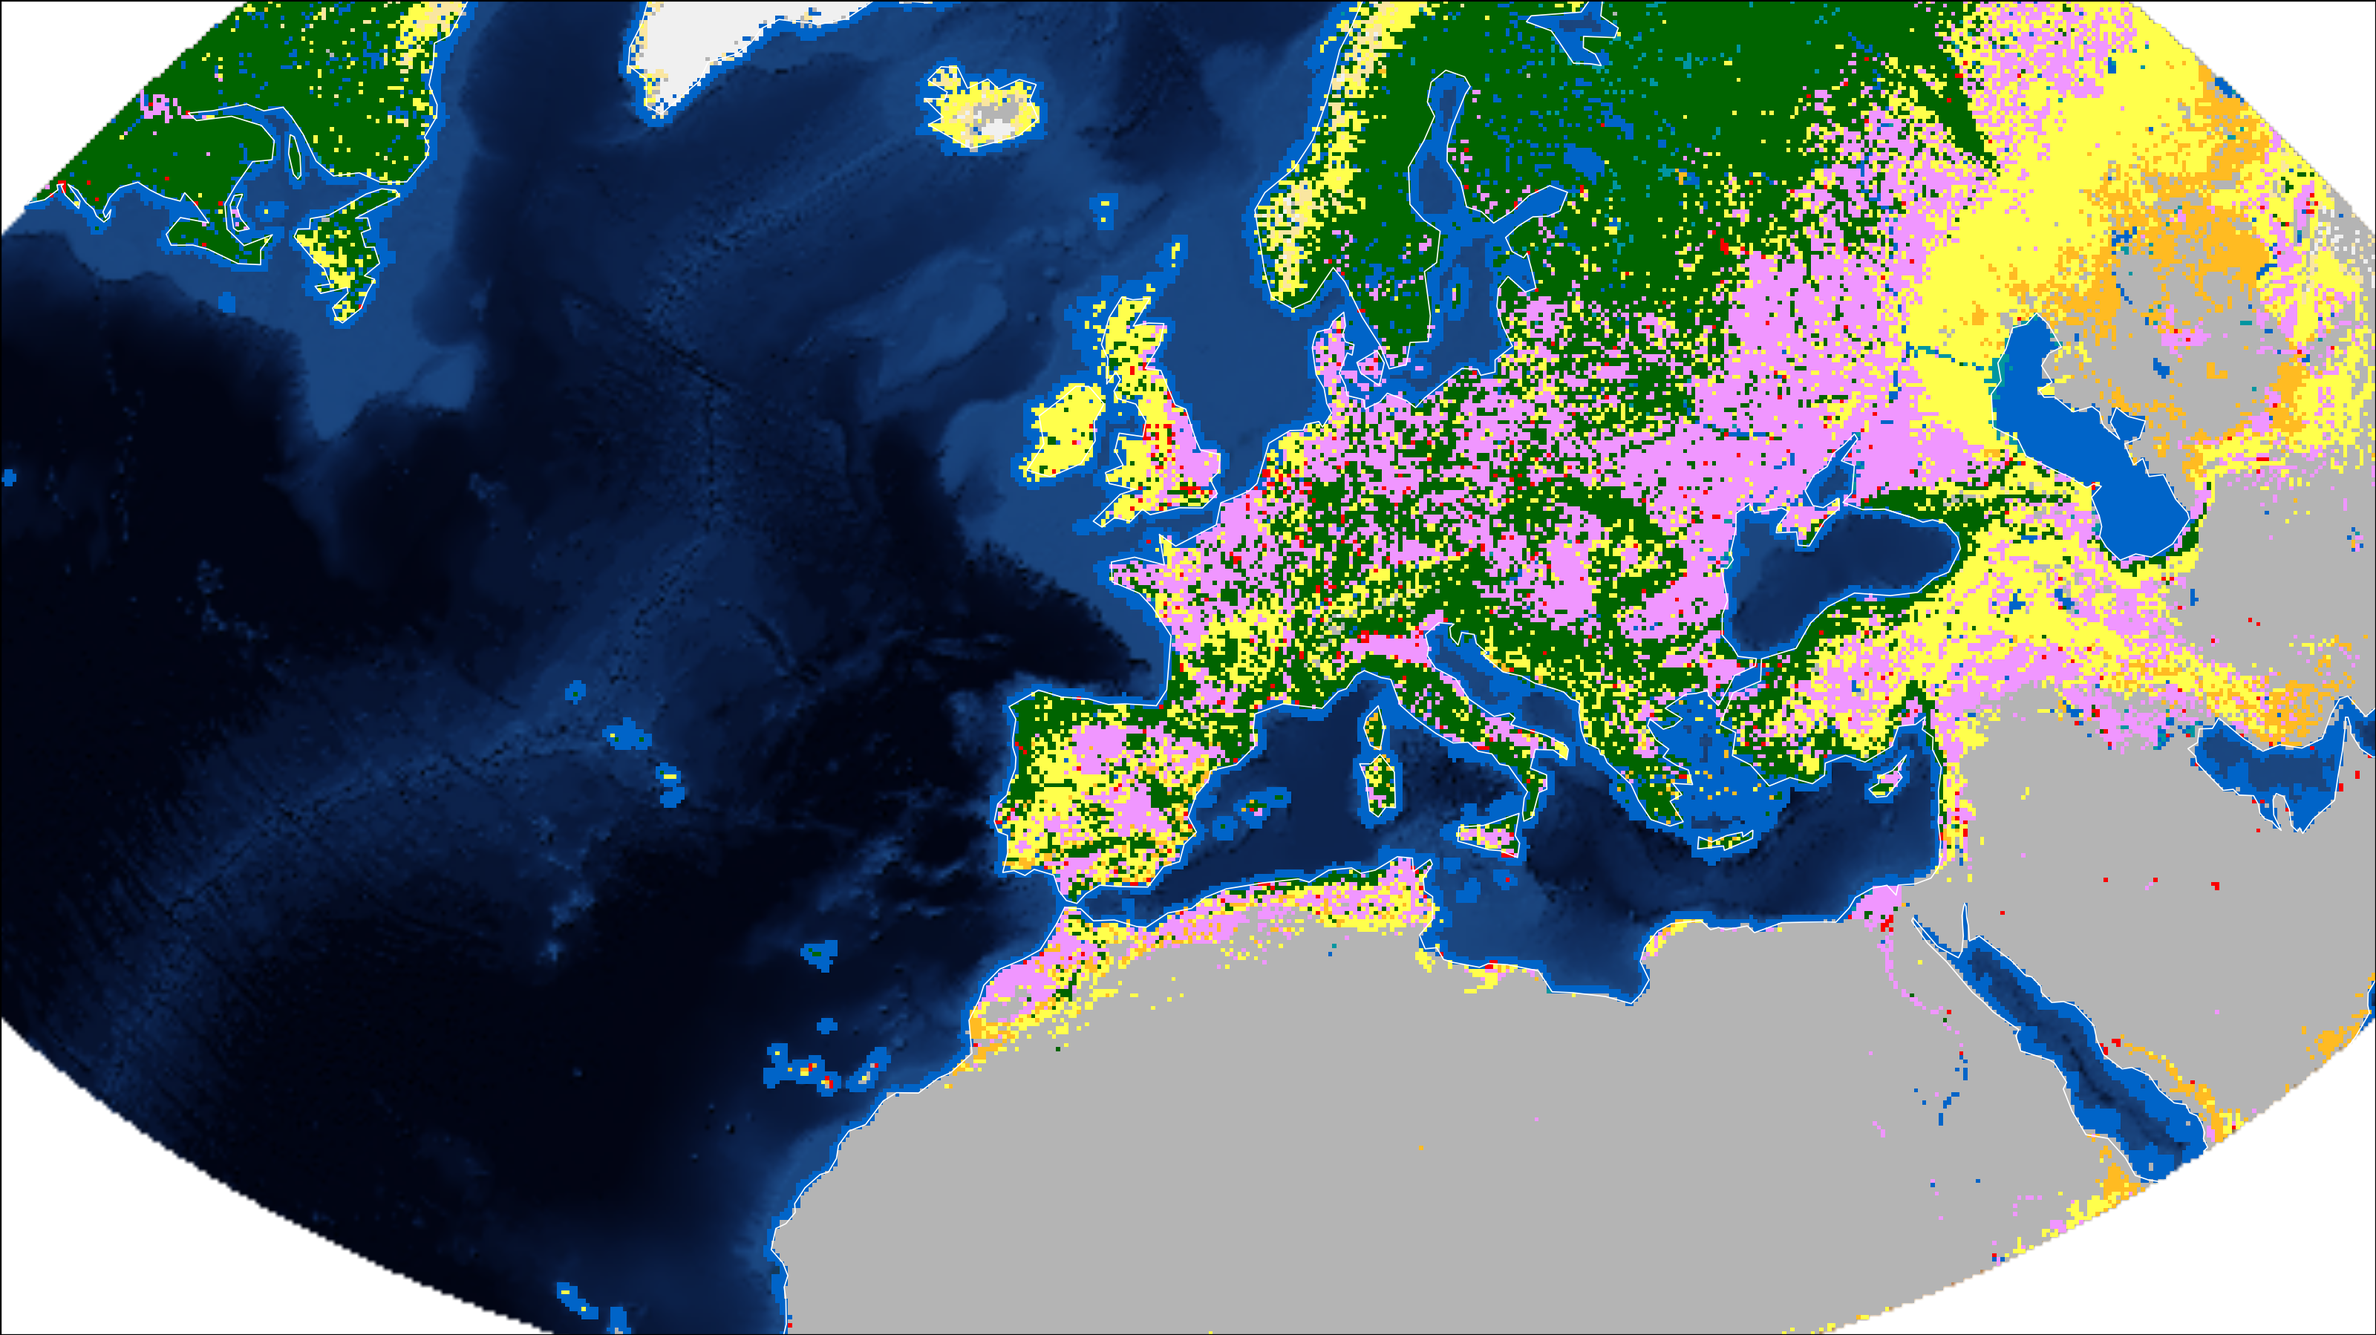
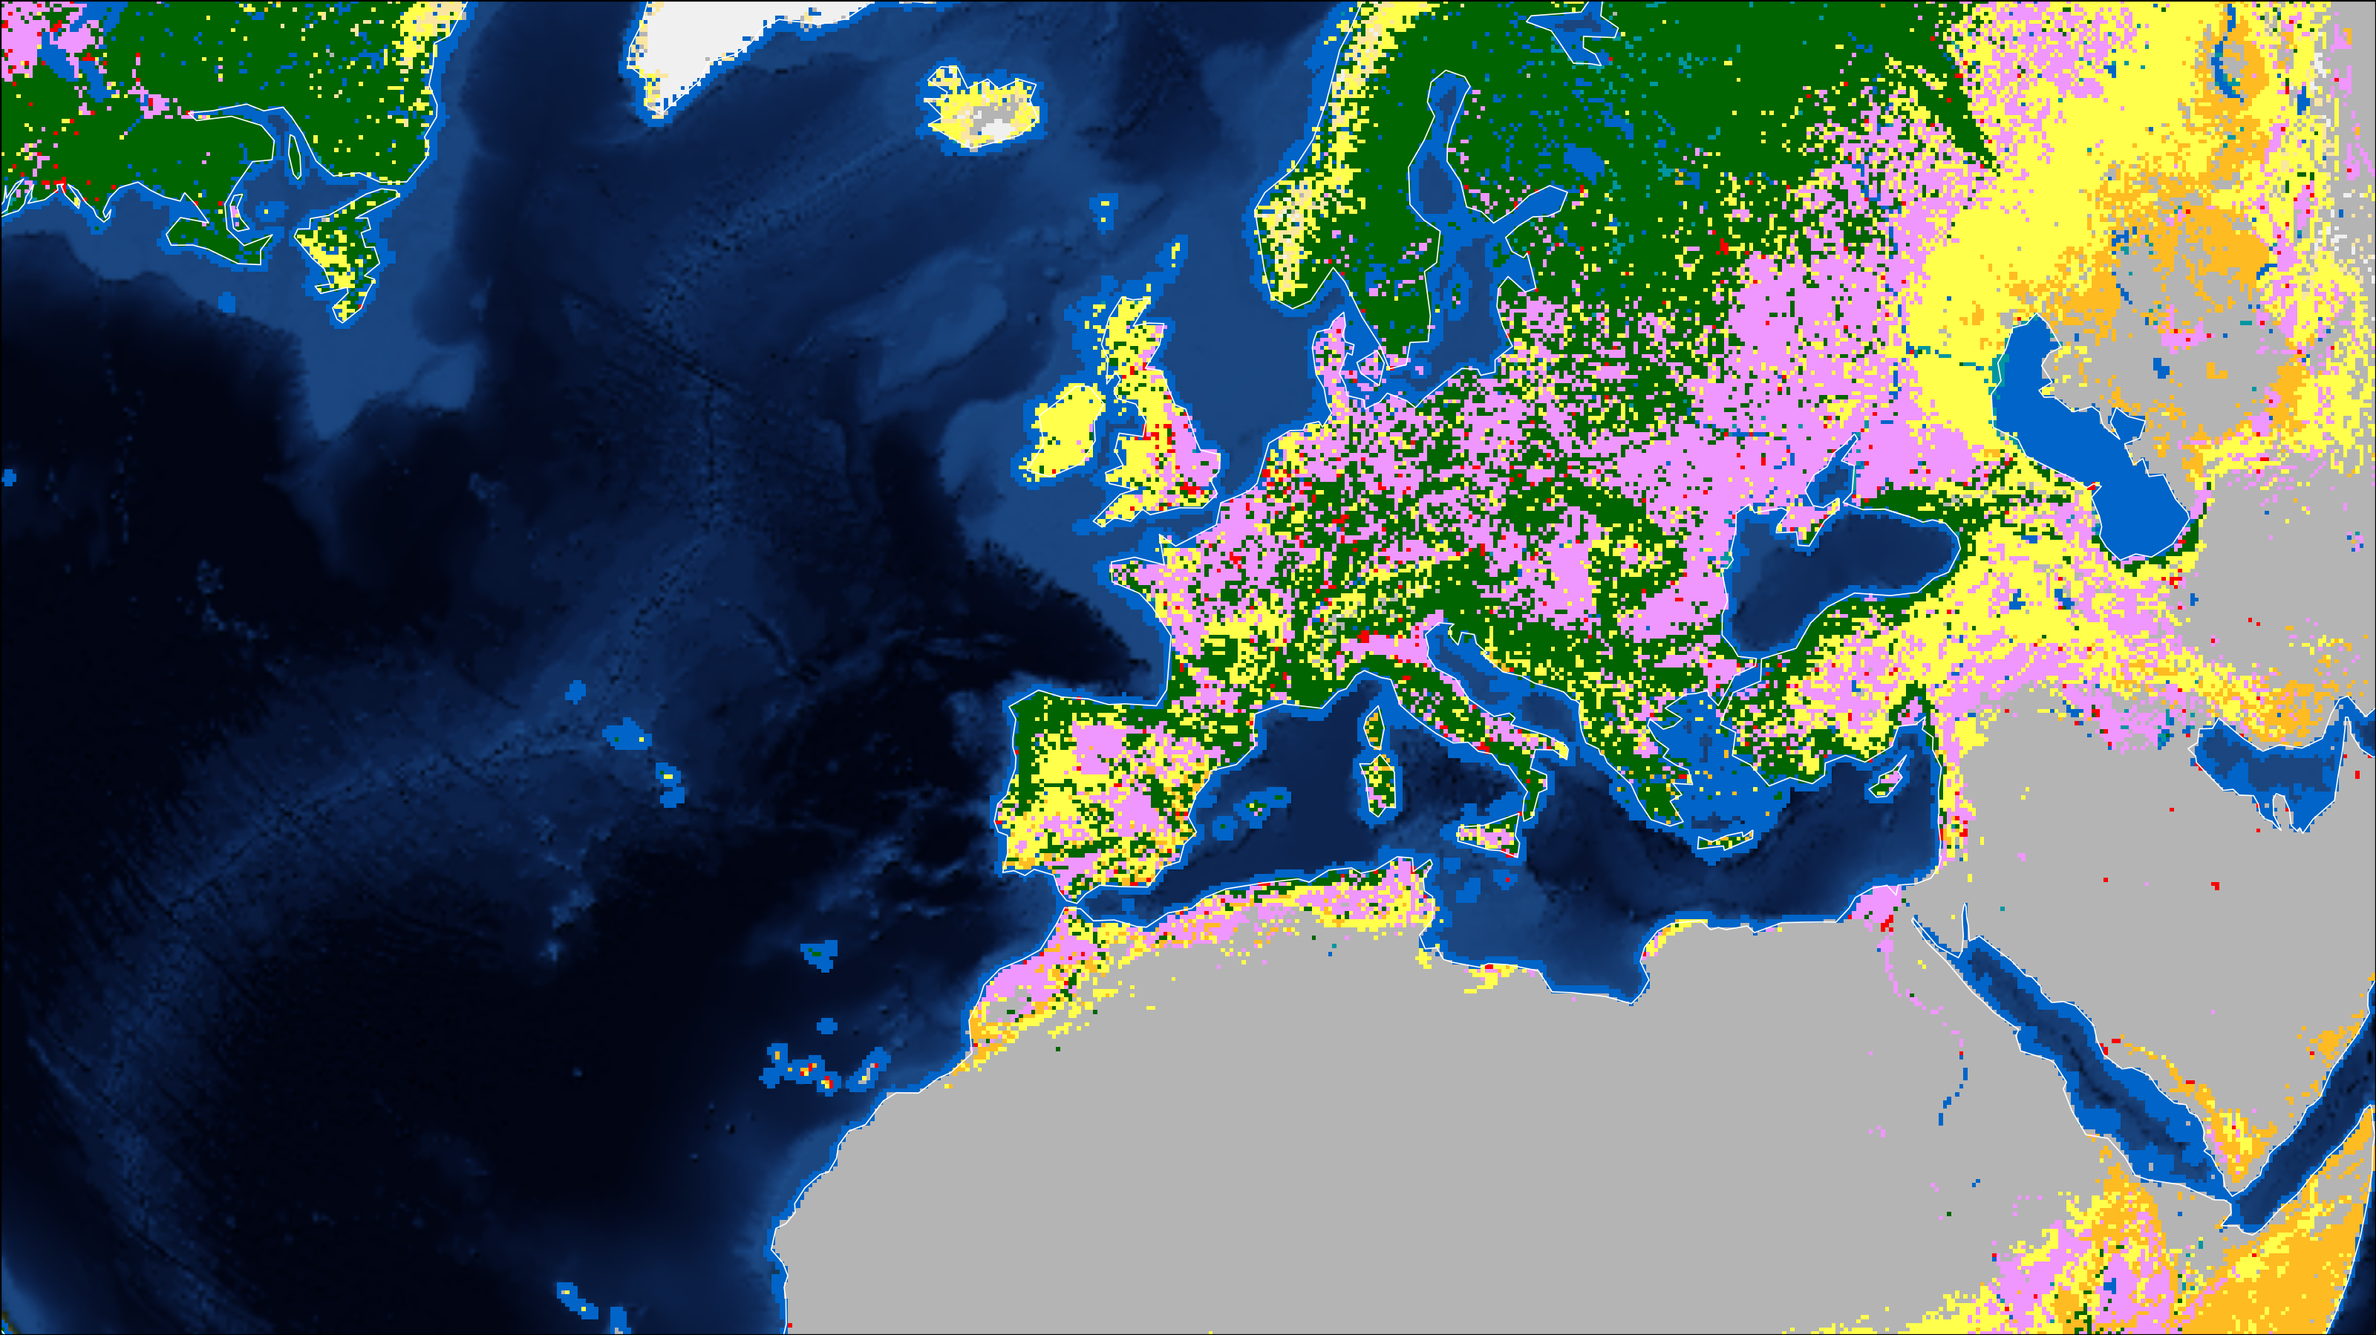
Fix rectangular crop for MapLibre-link renders
Two bugs caused the rendered image to appear oval instead of rectangular:

1. _bbox_for_view used simple lat/lon arithmetic that severely
   underestimated the geographic coverage of orthographic viewport
   corners. The diagonal corner sits on a great-circle arc that dips
   ~13 degrees south of the linearly-estimated latitude, leaving the
   bottom corners outside the loaded COG window. warp_array then masked
   those pixels as extrapolated, creating the oval/transparent corner
   effect. Fixed by inverse-projecting the 4 unbuffered viewport corners
   + 4 buffered edge midpoints through Cartopy's Orthographic CRS.

2. set_boundary was called with transform=ax.transAxes before set_xlim/
   set_ylim, which is unreliable after set_aspect('auto'). Moved after
   the limits and changed to transform=proj (projection metre coords)
   so the clip rectangle is defined in the same space as xlim/ylim.

Also replace Unicode arrow/x characters with ASCII equivalents to
avoid cp1252 encoding errors on Windows.

diff --git a/scripts/orthographic_globe.py b/scripts/orthographic_globe.py
@@ -28,7 +28,7 @@ Output dimensions are controlled by ``GLOBE_SIZE_PX`` (each panel's square
 side length) and ``GLOBE_GAP_PX`` (inter-panel gap; outer margins are half
 this value on all four sides)::
 
-    Figure width  = N × (GLOBE_SIZE_PX + GLOBE_GAP_PX) px
+    Figure width  = N x (GLOBE_SIZE_PX + GLOBE_GAP_PX) px
     Figure height =      GLOBE_SIZE_PX + GLOBE_GAP_PX  px
 
 Config-driven batch rendering
@@ -130,7 +130,7 @@ def zoom_to_mpp(zoom: float, lat: float) -> float:
     Uses standard WebMercator tile math (512-px tiles, equatorial
     circumference 40 075 016.68 m)::
 
-        mpp = (40_075_016.68 / (512 × 2^zoom)) × cos(lat)
+        mpp = (40_075_016.68 / (512 x 2^zoom)) x cos(lat)
 
     Args:
         zoom: MapLibre zoom level (fractional values accepted).
@@ -171,24 +171,24 @@ COG_URL = (
     "LCM-10_v100_2020_MAP_lat-lon.tif"
 )
 
-# Downsample factor relative to native resolution (36 000 × 14 275 px).
-# None → auto-select the optimal pre-built COG overview for the current
+# Downsample factor relative to native resolution (36 000 x 14 275 px).
+# None -> auto-select the optimal pre-built COG overview for the current
 # globe_size_px and visible geographic extent.  Set an explicit integer to
-# override (e.g. 8 → ~4 500 × 1 784 px).
+# override (e.g. 8 -> ~4 500 x 1 784 px).
 DOWNSAMPLE_FACTOR: int | None = None
 
 # Optional background imagery COG (3-band RGB uint8, EPSG:4326).
-# None → use Cartopy's built-in Natural Earth stock image (ax.stock_img()).
+# None -> use Cartopy's built-in Natural Earth stock image (ax.stock_img()).
 BG_COG_URL: str | None = (
     "https://vito-lcf-shapefiles-waw4-1.s3.waw4-1.cloudferro.com/"
     "world_topo_bathy_200407_WGS84.tif"
 )
-# Downsample factor for the background COG.  None → auto-select.
+# Downsample factor for the background COG.  None -> auto-select.
 BG_DOWNSAMPLE_FACTOR: int | None = None
 
 # Oversampling quality factor used when selecting a COG overview for
 # full-globe renders.  1.0 = 1 source pixel per output pixel (minimum);
-# 2.0 = 2 source pixels per output pixel (sharper; 4× data but still
+# 2.0 = 2 source pixels per output pixel (sharper; 4x data but still
 #        served from pre-built overviews — no extra network cost per tile).
 # Zoomed renders always use windowed native-resolution reads instead.
 QUALITY_SCALE: float = 2.0
@@ -204,7 +204,7 @@ BACKGROUND = "black"
 GLOBE_VIEWS: list[GlobeView] = [GlobeView(-90.0, 15.0), GlobeView(60.0, 25.0)]
 
 # Panel size and spacing in pixels.
-# Each panel is GLOBE_SIZE_PX × GLOBE_SIZE_PX.
+# Each panel is GLOBE_SIZE_PX x GLOBE_SIZE_PX.
 # GLOBE_GAP_PX is the gap between adjacent panels; outer margins equal
 # GLOBE_GAP_PX / 2 on every side (left, right, top, bottom).
 GLOBE_SIZE_PX: int = 2100
@@ -221,7 +221,7 @@ BORDER_COLOR: str = "white"   # use "black" for light backgrounds
 BORDER_WIDTH: float = 0.4
 
 # ---------------------------------------------------------------------------
-# LCM-10 colormap  (value → CSS hex; None = transparent / no-data)
+# LCM-10 colormap  (value -> CSS hex; None = transparent / no-data)
 # ---------------------------------------------------------------------------
 COLORMAP_HEX: dict[int, str | None] = {
     10:  "#006400",   # Tree cover
@@ -236,7 +236,7 @@ COLORMAP_HEX: dict[int, str | None] = {
     100: "#0064C8",   # Permanent water bodies
     110: "#F0F0F0",   # Snow and ice
     254: "#0A0A0A",   # Unclassifiable
-    255: None,        # No-data → transparent
+    255: None,        # No-data -> transparent
 }
 
 # ---------------------------------------------------------------------------
@@ -314,12 +314,12 @@ def _optimal_factor(
     The effective ideal factor requires ``quality_scale`` source pixels per
     output pixel::
 
-        effective_ideal = native_width × visible_width_deg
-                          / (360 × globe_size_px × quality_scale)
+        effective_ideal = native_width x visible_width_deg
+                          / (360 x globe_size_px x quality_scale)
 
     With ``quality_scale = 1.0`` the function selects the coarsest overview
     that gives ≥ 1 source pixel per output pixel.  With ``quality_scale = 2.0``
-    it requires ≥ 2 source pixels per output pixel (sharper, costs 4× data
+    it requires ≥ 2 source pixels per output pixel (sharper, costs 4x data
     but served from pre-built overviews).
 
     Returns the *largest* available pre-built overview factor ≤ the effective
@@ -359,9 +359,18 @@ def _bbox_for_view(
     Returns ``None`` for full-globe views (``view.zoom is None``), which
     should always use full-extent overview reads instead.
 
-    The visible half-widths in degrees are derived from the WebMercator tile
-    math already used by ``zoom_to_mpp``.  A ``buffer`` fraction is added on
-    all sides so Cartopy can anti-alias edges correctly.
+    The bounding box is computed by converting the orthographic viewport
+    boundary to geographic coordinates via the inverse orthographic projection.
+    Simple lat/lon arithmetic significantly underestimates the geographic
+    extent of the diagonal corners because an orthographic corner sits on a
+    great-circle arc that dips well below the lat computed from the vertical
+    half-extent alone.
+
+    The four viewport corners are converted without buffer (applying buffer
+    to the corners would push their diagonal distance beyond the globe limb
+    and produce NaN).  The four edge midpoints are converted with the full
+    buffer applied so the loaded COG window extends slightly beyond the panel
+    edges, preventing interpolation artefacts.
 
     Args:
         view: Globe camera position.  ``view.zoom`` must not be ``None``.
@@ -371,23 +380,32 @@ def _bbox_for_view(
 
     Returns:
         ``(lon_min, lat_min, lon_max, lat_max)`` in degrees, clamped to
-        ±180 /  ±90, or ``None`` for full-globe views.
+        ±180 / ±90, or ``None`` for full-globe views.
     """
     if view.zoom is None:
         return None
-    panel_h_px = globe_size_px / aspect_ratio
+    panel_h_px = round(globe_size_px / aspect_ratio)
     mpp = zoom_to_mpp(view.zoom, view.lat)
-    half_w_m = (globe_size_px / 2) * mpp * (1 + buffer)
-    half_h_m = (panel_h_px   / 2) * mpp * (1 + buffer)
-    # Convert metres → degrees (approximate; exact enough for window selection).
-    cos_lat = math.cos(math.radians(view.lat))
-    half_lon = half_w_m / (111_320.0 * cos_lat) if cos_lat > 1e-9 else 180.0
-    half_lat = half_h_m / 111_320.0
+    hw = (globe_size_px / 2) * mpp   # half-width in metres (no buffer)
+    hh = (panel_h_px   / 2) * mpp   # half-height in metres (no buffer)
+    bw = hw * (1 + buffer)           # buffered half-width  (edge midpoints only)
+    bh = hh * (1 + buffer)           # buffered half-height (edge midpoints only)
+    # Sample 8 points: 4 viewport corners (no buffer — diagonal distance would
+    # exceed Earth radius) + 4 edge midpoints (buffered for warp margin).
+    proj     = ccrs.Orthographic(central_longitude=view.lon, central_latitude=view.lat)
+    geodetic = ccrs.Geodetic()
+    pts = geodetic.transform_points(
+        proj,
+        np.array([-hw,  hw,  hw, -hw, -bw,  bw,  0.0,  0.0]),
+        np.array([-hh, -hh,  hh,  hh,  0.0, 0.0, -bh,   bh]),
+    )
+    valid = ~np.any(np.isnan(pts), axis=1)
+    lons, lats = pts[valid, 0], pts[valid, 1]
     return (
-        max(-180.0, view.lon - half_lon),
-        max( -90.0, view.lat - half_lat),
-        min( 180.0, view.lon + half_lon),
-        min(  90.0, view.lat + half_lat),
+        max(-180.0, float(lons.min())),
+        max( -90.0, float(lats.min())),
+        min( 180.0, float(lons.max())),
+        min(  90.0, float(lats.max())),
     )
 
 
@@ -508,7 +526,7 @@ def _read_overview(src: rasterio.DatasetReader, downsample: int,
     target_shape = (len(bands) if bands else src.count, ov_h, ov_w)
 
     if downsample in overviews:
-        print(f"  reading overview ×{downsample} ({ov_w} × {ov_h}) — no resampling")
+        print(f"  reading overview x{downsample} ({ov_w} x {ov_h}) — no resampling")
         return src.read(out_shape=target_shape, **kwargs)
 
     warnings.warn(
@@ -558,7 +576,7 @@ def load_data(
     """
     print(f"Opening LCM-10 COG: {cog_url}")
     with rasterio.open(cog_url) as src:
-        print(f"  native size : {src.width} × {src.height}")
+        print(f"  native size : {src.width} x {src.height}")
         print(f"  overviews   : {src.overviews(1)}")
         if bbox is not None:
             lon_span = max(bbox[2] - bbox[0], 0.001)
@@ -566,7 +584,7 @@ def load_data(
             tgt_w = max(256, round(globe_size_px * quality_scale))
             tgt_h = max(256, round(tgt_w * lat_span / lon_span))
             out_shape = (src.count, tgt_h, tgt_w)
-            print(f"  target shape: {tgt_w} × {tgt_h} (quality_scale={quality_scale})")
+            print(f"  target shape: {tgt_w} x {tgt_h} (quality_scale={quality_scale})")
             data, extent = _read_window_native(
                 src, bbox, out_shape=out_shape, resampling=Resampling.mode
             )
@@ -625,7 +643,7 @@ def load_background(
     """
     print(f"Opening background COG: {cog_url}")
     with rasterio.open(cog_url) as src:
-        print(f"  native size : {src.width} × {src.height}")
+        print(f"  native size : {src.width} x {src.height}")
         print(f"  overviews   : {src.overviews(1)}")
         if bbox is not None:
             lon_span = max(bbox[2] - bbox[0], 0.001)
@@ -633,7 +651,7 @@ def load_background(
             tgt_w = max(256, round(globe_size_px * quality_scale))
             tgt_h = max(256, round(tgt_w * lat_span / lon_span))
             out_shape = (3, tgt_h, tgt_w)
-            print(f"  target shape: {tgt_w} × {tgt_h} (quality_scale={quality_scale})")
+            print(f"  target shape: {tgt_w} x {tgt_h} (quality_scale={quality_scale})")
             data, extent = _read_window_native(
                 src, bbox, bands=[1, 2, 3], out_shape=out_shape, resampling=Resampling.bilinear
             )
@@ -647,7 +665,7 @@ def load_background(
                 )
             data = _read_overview(src, downsample, Resampling.bilinear, bands=[1, 2, 3])
 
-    rgb = np.moveaxis(data, 0, -1)  # (3, H, W) → (H, W, 3)
+    rgb = np.moveaxis(data, 0, -1)  # (3, H, W) -> (H, W, 3)
     print(f"  done — RGB shape {rgb.shape}")
     return rgb, extent
 
@@ -676,7 +694,7 @@ def build_figure(
     ``globe_gap_px`` controls both the inter-panel gap and the outer margins
     (outer margins = ``globe_gap_px / 2`` on all four sides)::
 
-        Figure width  = N × (globe_size_px + globe_gap_px) px
+        Figure width  = N x (globe_size_px + globe_gap_px) px
         Figure height =      (globe_size_px / aspect_ratio) + globe_gap_px  px
 
     When a :class:`GlobeView` carries a ``zoom`` value, the panel renders a
@@ -694,7 +712,7 @@ def build_figure(
             are half this value.
         dpi: Output resolution in dots per inch.
         bg_rgb: Optional (H, W, 3) uint8 RGB background imagery.  ``None``
-            → use Cartopy's built-in Natural Earth stock image instead.
+            -> use Cartopy's built-in Natural Earth stock image instead.
         bg_extent: ``[left, right, bottom, top]`` for ``bg_rgb``.  Ignored
             when ``bg_rgb`` is ``None``.
         coastlines: When ``True``, draw coastline outlines.
@@ -711,7 +729,7 @@ def build_figure(
     panel_h_px = round(globe_size_px / aspect_ratio)
 
     # ---- Figure dimensions ------------------------------------------------
-    # Total width  = N × (panel_w + gap)  ;  outer margin = gap/2 on each side
+    # Total width  = N x (panel_w + gap)  ;  outer margin = gap/2 on each side
     # Total height =      panel_h + gap   ;  outer margin = gap/2 top and bottom
     fig_w_px = n * (globe_size_px + globe_gap_px)
     fig_h_px = panel_h_px + globe_gap_px
@@ -799,13 +817,19 @@ def build_figure(
             # transparent sides.  Override with 'auto' so the xlim/ylim
             # below map the projection metres directly to the panel pixels.
             ax.set_aspect('auto')
-            # Clip to the full axes rectangle (screen space) so the circular
-            # globe horizon is not visible inside the viewport.
-            ax.set_boundary(mpath.Path.unit_rectangle(), transform=ax.transAxes)
             # Set viewport in projection metres directly — set_extent() has
             # known issues with Orthographic when crs=proj is passed.
             ax.set_xlim(-half_w, half_w)
             ax.set_ylim(-half_h, half_h)
+            # Clip to a rectangle in projection-metre coordinates.
+            # transform=ax.transAxes is unreliable after set_aspect('auto');
+            # using data-space coords that match xlim/ylim is more robust.
+            rect = mpath.Path([
+                (-half_w, -half_h), ( half_w, -half_h),
+                ( half_w,  half_h), (-half_w,  half_h),
+                (-half_w, -half_h),
+            ])
+            ax.set_boundary(rect, transform=proj)
         else:
             # Full circular globe (Cartopy default circular boundary).
             ax.set_global()
@@ -919,7 +943,7 @@ def run_all_renders(config: dict, names: set[str] | None = None) -> None:
         bbox = _render_bbox(globe_views, globe_size, asp)
 
         n = len(globe_views)
-        print(f"\nRendering '{name}' ({n} globe(s)) → {output} ...")
+        print(f"\nRendering '{name}' ({n} globe(s)) -> {output} ...")
         rgba, lcm_extent = _load(load_data, cog_url, globe_size, vwd, ds, qs, bbox)
 
         bg_rgb: np.ndarray | None = None
@@ -946,7 +970,7 @@ def run_all_renders(config: dict, names: set[str] | None = None) -> None:
         transparent = background == "transparent"
         fig.savefig(output, dpi=dpi, transparent=transparent, facecolor=fig.get_facecolor())
         plt.close(fig)
-        print(f"  Saved → {output}")
+        print(f"  Saved -> {output}")
 
 
 # ---------------------------------------------------------------------------
@@ -1015,7 +1039,7 @@ def main() -> None:
     transparent = BACKGROUND == "transparent"
     fig.savefig(OUTPUT_PATH, dpi=DPI, transparent=transparent, facecolor=fig.get_facecolor())
     plt.close(fig)
-    print(f"Saved → {OUTPUT_PATH}")
+    print(f"Saved -> {OUTPUT_PATH}")
 
 
 if __name__ == "__main__":
